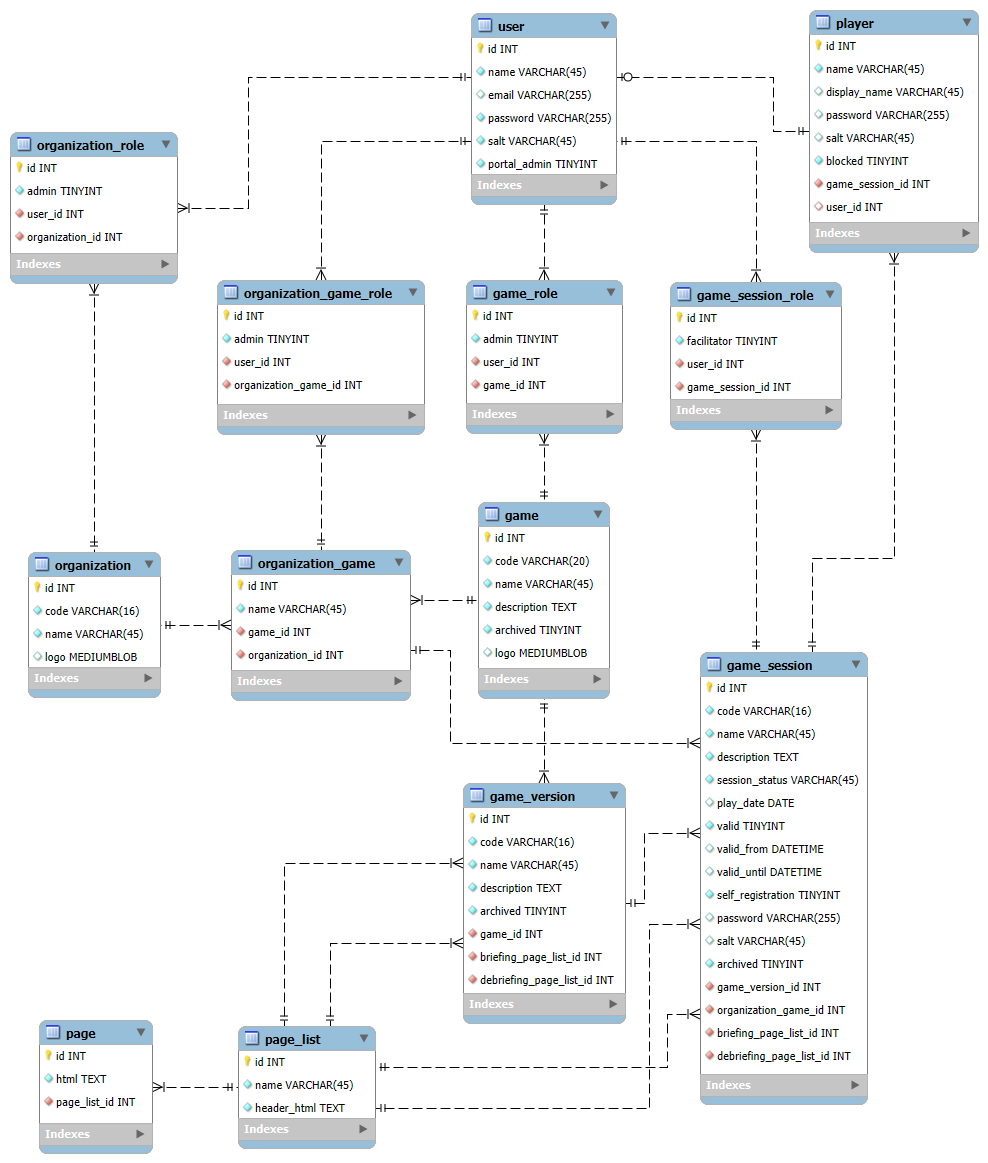
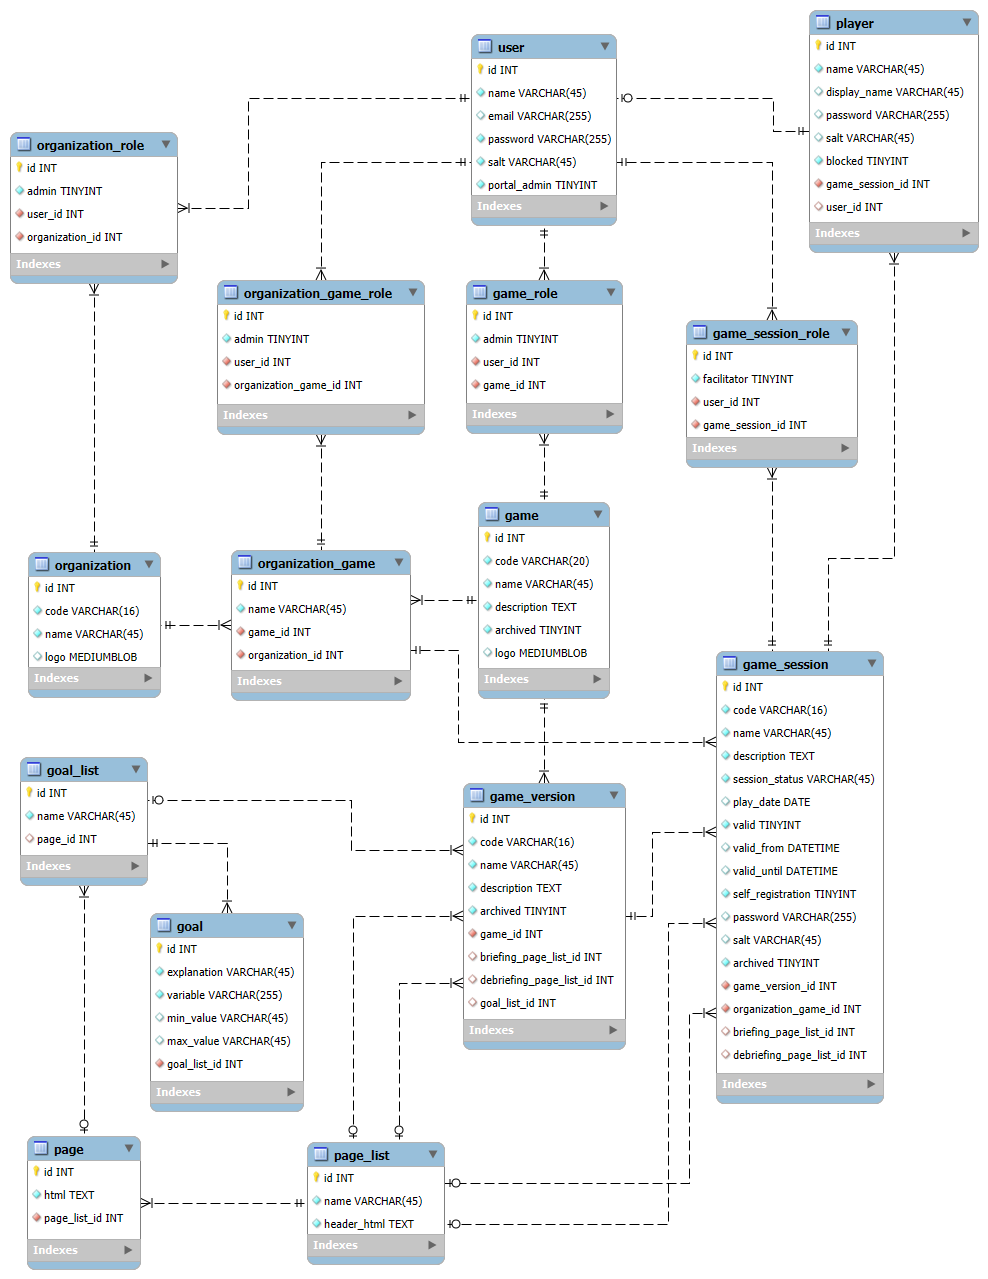
Issue #22. Specify goals for a game version

diff --git a/doc/4-architecture/database-design.md b/doc/4-architecture/database-design.md
@@ -25,6 +25,7 @@ __Changelog:__
  - 2025-08-30 - Table handler_valid_actor also on actor_type level [Issue #19](https://github.com/averbraeck/gscg-design/issues/19).
  - 2025-08-30 - Add database tables for briefing and debriefing [Issue #30](https://github.com/averbraeck/gscg-design/issues/30).
  - 2025-08-30 - Allow limits to be set on a trigger [Issue #33](https://github.com/averbraeck/gscg-design/issues/33).
+ - 2025-08-30 - Specify goals for a game version [Issue #22](https://github.com/averbraeck/gscg-design/issues/22).
  
 
 ## 4.1.1. High-level database design
@@ -274,7 +275,7 @@ Note for FC1.5: The access rights for a user are:
 - FC2.4 The game designer must be able to choose a game version to maintain
   <br>The `game_version` table is in the database.
 - FC2.5 The game designer must be able to set the player goals for the chosen game version
-  <br>This still needs to be designed and added to the database. SEE NOTE.
+  <br>Player goals are contained in the tabled `goal_list` and `goal`, linked to a `game_version`.
 - FC2.6 The game designer must be able to set the actors to use for the chosen game version
   <br>The database contains `actor_type` and `actor` with `role_type` and `role`.
 - FC2.7 The game designer must be able to set the scenario to use for the chosen game version
@@ -297,9 +298,6 @@ Note for FC1.5: The access rights for a user are:
   <br>This still needs to be designed and added to the database. SEE NOTE.
 
 The non-functional requirements have no effect on the database.
-
-> [!NOTE]
-> **FC2.5**: Player goals have to be added to the database.
 
 > [!NOTE]
 > **FC2.15**: Allowable Player strategies have to be added to the database.
